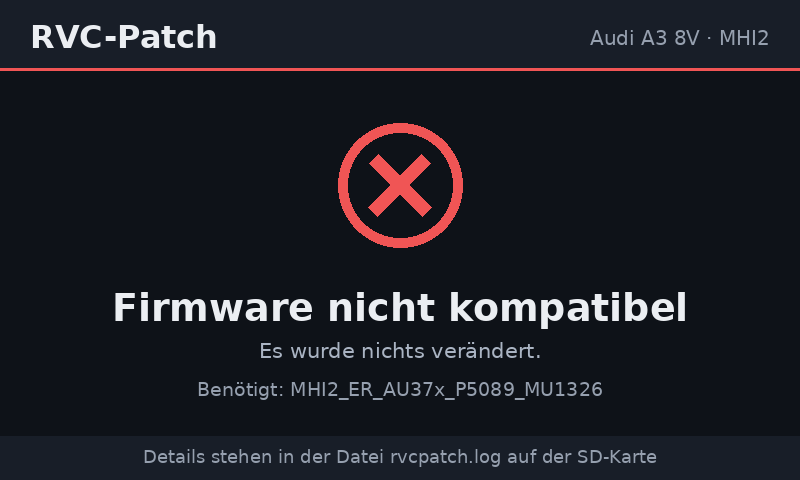
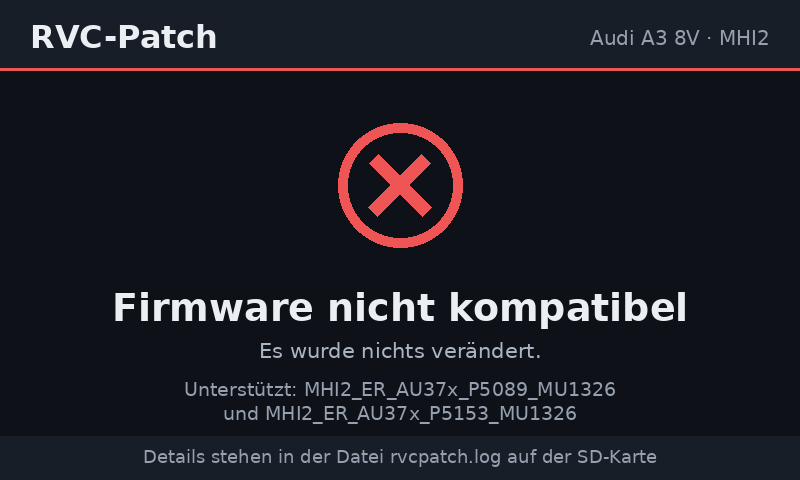
Add files via upload

Changed region(s): [[0.2188, 0.7812, 0.7812, 0.875]]

diff --git a/README.md b/README.md
@@ -2,28 +2,20 @@ Idea from https://github.com/mrfixpl/Audi-MHI2-RVC-fullscreen
 
 Wanted to make an SWDLautorun solution if no wifi or d-link is available
 
-Audi A3 8V MHI2_ER_AU37x_P5089_MU1326 only at the moment!!!
+Audi A3 8V MHI2_ER_AU37x_P5089_MU1326 and MHI2_ER_AU37x_P5153_MU1326 only at the moment!!!
 
-Use at your own risk. Create backups before doing anything.
+Use at your own risk.
 
+Create backups before doing anything.
 
+Vibecoded with Claude
 
 FAT32 formatted SD Card needed
 
 
-Patching takes about 4 minutes! Please be patient
+## v0.10 (changes)
 
-Big Thank you to @nadeem2626 https://github.com/nadeem2626 for fixing the Metainfo-Bug in the early releases
-
-After Installation you will have to fix DTC1555 Software Version Management fault.
-Use https://mib-helper.com/im-so-xory/ or https://dias-automotive-engineering.com/fix-for-software-version-management-svm-fault-1555-b201a/
-with VCDS, ODIS, OBD11 etc.
-
-## Working Firmware Versions
-MHI2_ER_AU37x_P5089_MU1326
-
-MHI2_ER_AU37x_P5153_MU1326 (possible with unofficial Installer without Firmware-Check) 
-
+- Firmware check: in addition to `MHI2_ER_AU37x_P5089_MU1326` the firmware `MHI2_ER_AU37x_P5153_MU1326` is now accepted (the train is read from the EEPROM, the MU stays 1326). Any other firmware still aborts the installation before anything is changed. The firmware error image lists both supported versions.
 
 ## v0.09 (changes)
 
